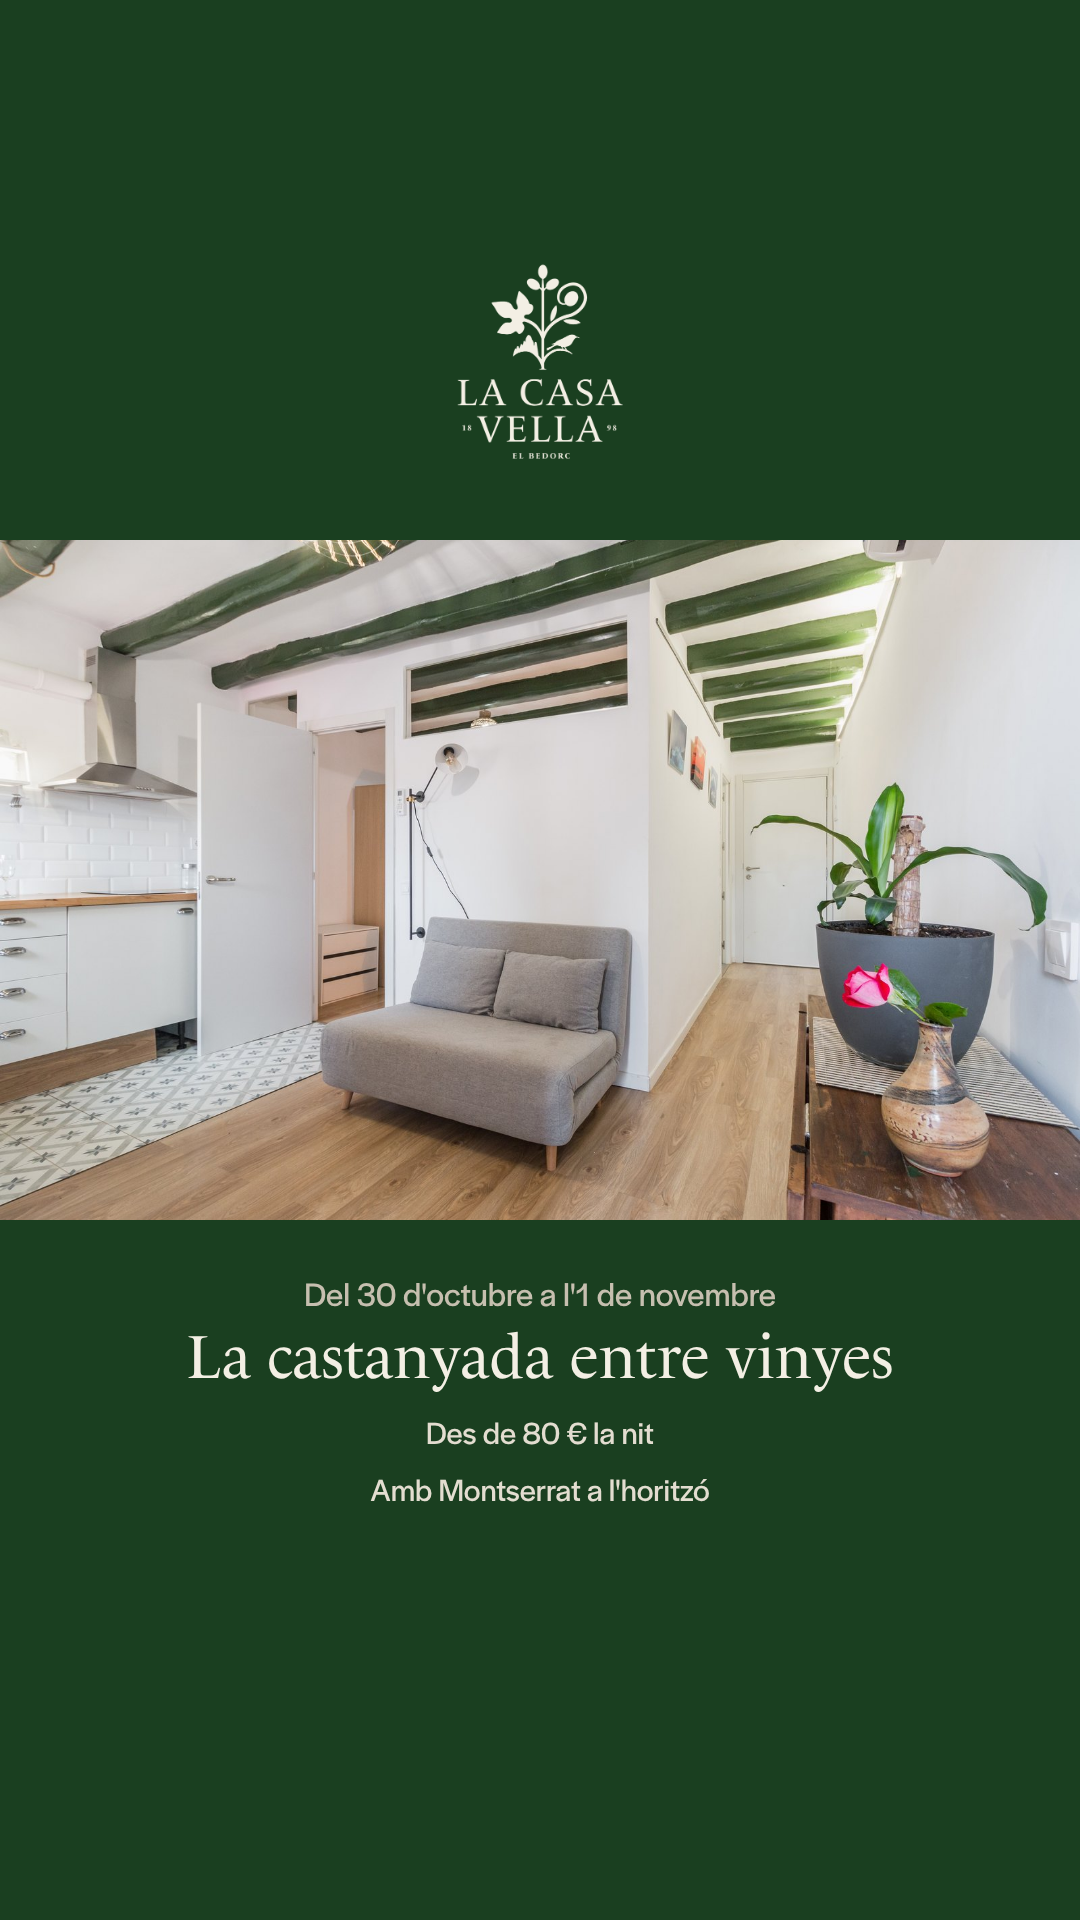
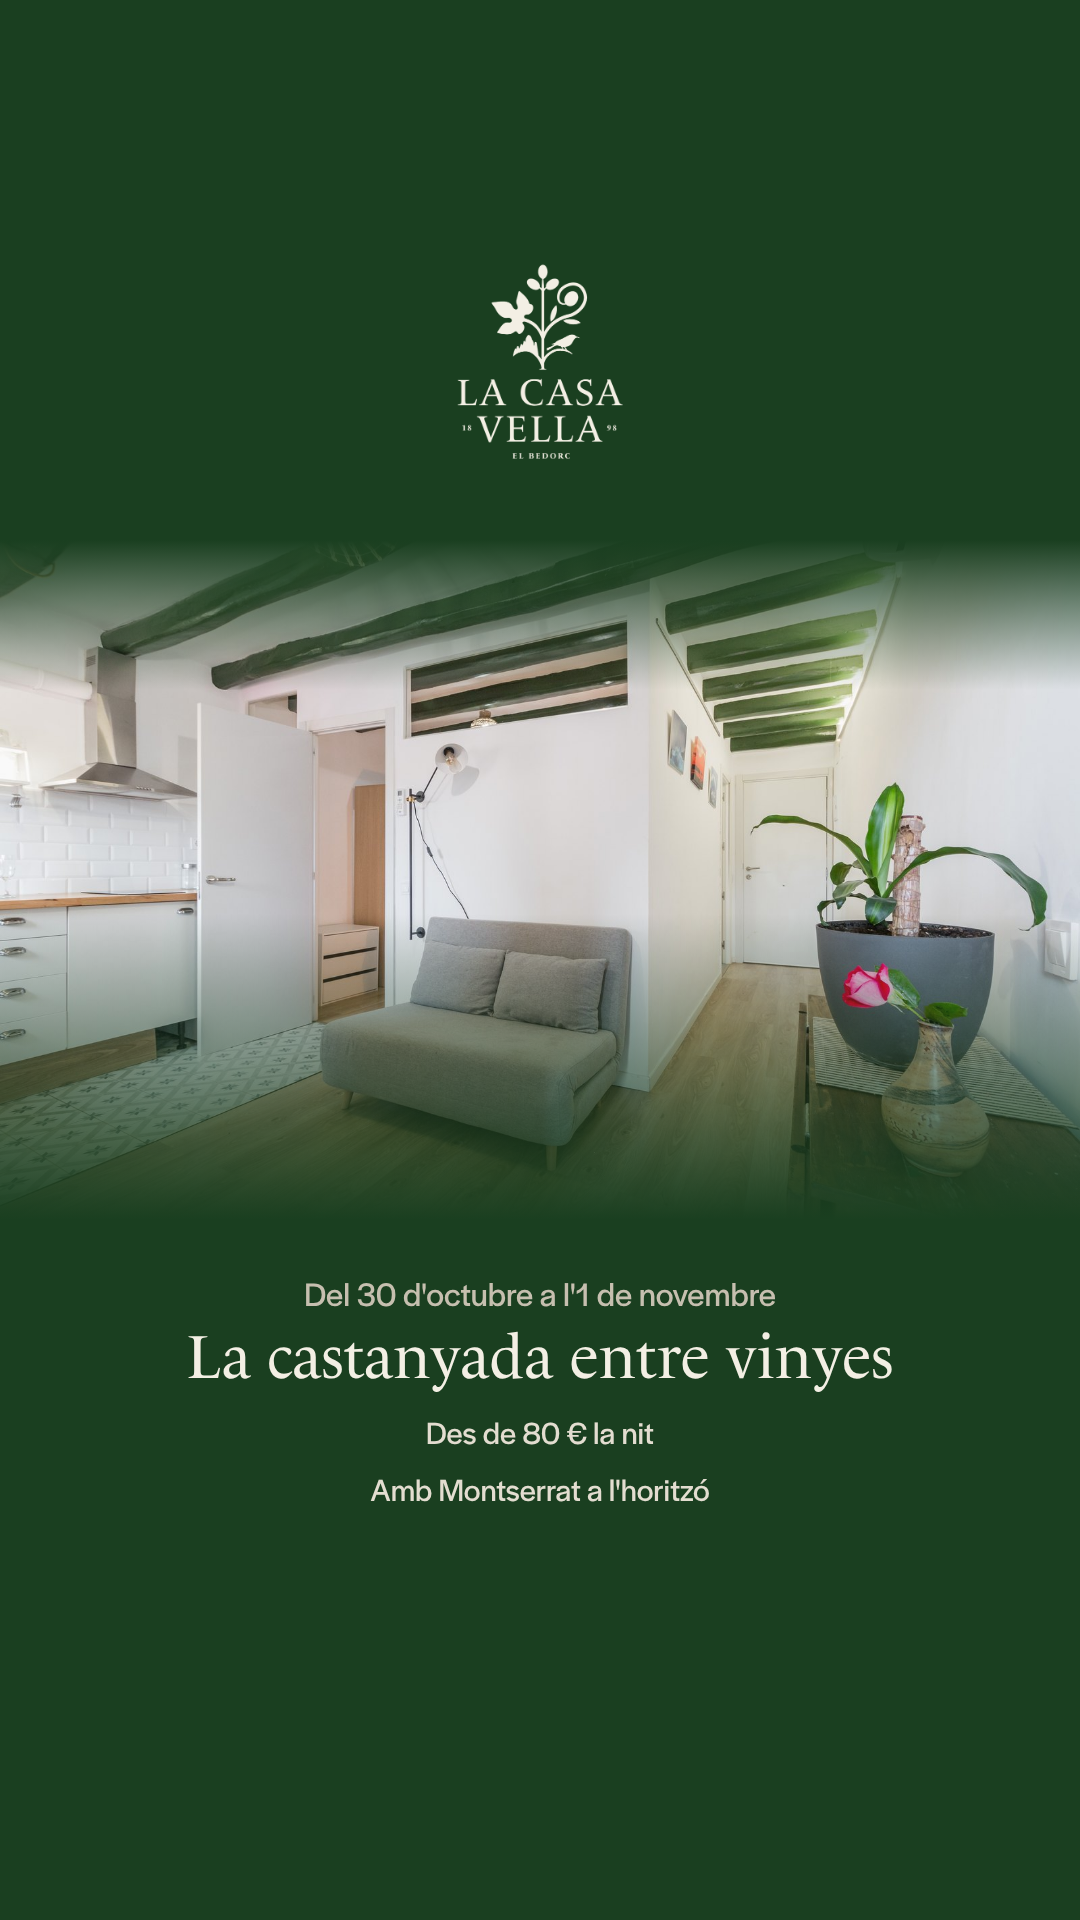
Ads: slow-mornings words on the room image; stories fade the photo into the green
Claude-Session: https://claude.ai/code/session_01Lmu1CZcVCAKZt8uGzZEBGx

Changed region(s): [[0.0, 0.4688, 1.0, 0.6562], [0.0, 0.2812, 1.0, 0.375]]

diff --git a/ads/src/html/castanyada-habitacion-story-es.html b/ads/src/html/castanyada-habitacion-story-es.html
@@ -10,4 +10,5 @@ body { background: #1a3f20; }
 </style><div class="c" style="width:1080px;height:1920px">
 <img src="file:///home/user/casavella/img/logo-light.png" alt="La Casa Vella" style="position:absolute;top:262px;left:50%;width:170px;margin-left:-85px">
 <img class="photo" src="file:///home/user/casavella/img/hab-llit.jpg" style="top:540px;height:680px;object-position:50% center">
-<div style="position:absolute;left:88px;right:88px;top:1270px;display:flex;flex-direction:column;align-items:center;gap:14px;text-align:center"><p class="line" style="font-size: 34px; color: #c6bfaf;">Del 30 de octubre al 1 de noviembre</p><p class="title" style="font-size: 62px;">La castanyada en una casa de 1898</p><p class="line" style="font-size: 32px;">Habitación desde 80 € la noche</p><p class="line" style="font-size: 32px;">Entre viñedos, cerca de Montserrat</p></div></div>
+<div style="position:absolute;left:0;right:0;top:540px;height:680px;background:linear-gradient(180deg,rgba(26,63,32,1) 0%,rgba(26,63,32,0) 22%,rgba(26,63,32,0) 55%,rgba(26,63,32,1) 100%)"></div>
+<div style="position:absolute;left:88px;right:88px;top:1270px;display:flex;flex-direction:column;align-items:center;gap:14px;text-align:center"><p class="line" style="font-size: 34px; color: #c6bfaf;">Del 30 de octubre al 1 de noviembre</p><p class="title" style="font-size: 62px;">Aquí las mañanas empiezan despacio</p><p class="line" style="font-size: 32px;">Habitación desde 80 € la noche</p><p class="line" style="font-size: 32px;">La castanyada entre viñedos</p></div></div>

diff --git a/ads/src/html/castanyada-habitacion-story-ca.html b/ads/src/html/castanyada-habitacion-story-ca.html
@@ -10,4 +10,5 @@ body { background: #1a3f20; }
 </style><div class="c" style="width:1080px;height:1920px">
 <img src="file:///home/user/casavella/img/logo-light.png" alt="La Casa Vella" style="position:absolute;top:262px;left:50%;width:170px;margin-left:-85px">
 <img class="photo" src="file:///home/user/casavella/img/hab-llit.jpg" style="top:540px;height:680px;object-position:50% center">
-<div style="position:absolute;left:88px;right:88px;top:1270px;display:flex;flex-direction:column;align-items:center;gap:14px;text-align:center"><p class="line" style="font-size: 34px; color: #c6bfaf;">Del 30 d'octubre a l'1 de novembre</p><p class="title" style="font-size: 62px;">La castanyada en una casa de 1898</p><p class="line" style="font-size: 32px;">Habitació des de 80 € la nit</p><p class="line" style="font-size: 32px;">Entre vinyes, a prop de Montserrat</p></div></div>
+<div style="position:absolute;left:0;right:0;top:540px;height:680px;background:linear-gradient(180deg,rgba(26,63,32,1) 0%,rgba(26,63,32,0) 22%,rgba(26,63,32,0) 55%,rgba(26,63,32,1) 100%)"></div>
+<div style="position:absolute;left:88px;right:88px;top:1270px;display:flex;flex-direction:column;align-items:center;gap:14px;text-align:center"><p class="line" style="font-size: 34px; color: #c6bfaf;">Del 30 d'octubre a l'1 de novembre</p><p class="title" style="font-size: 62px;">Aquí els matins comencen a poc a poc</p><p class="line" style="font-size: 32px;">Habitació des de 80 € la nit</p><p class="line" style="font-size: 32px;">La castanyada entre vinyes</p></div></div>

diff --git a/ads/src/html/castanyada-habitacion-feed-es.html b/ads/src/html/castanyada-habitacion-feed-es.html
@@ -11,4 +11,4 @@ body { background: #1a3f20; }
 <img class="photo" src="file:///home/user/casavella/img/hab-llit.jpg" style="inset:0;height:100%;object-position:50% center">
 <div style="position:absolute;inset:0;background:linear-gradient(0deg,rgba(26,63,32,.96) 0%,rgba(26,63,32,.55) 34%,rgba(26,63,32,0) 58%)"></div>
 <div style="position:absolute;left:88px;right:88px;bottom:96px;display:flex;flex-direction:column;align-items:center;gap:22px;text-align:center">
-<img src="file:///home/user/casavella/img/iso-light.png" alt="" style="width:56px;margin-bottom:6px"><p class="line" style="font-size: 34px; color: #c6bfaf;">Del 30 de octubre al 1 de noviembre</p><p class="title" style="font-size: 76px;">La castanyada en una casa de 1898</p><p class="line" style="font-size: 32px;">Habitación desde 80 € la noche</p><p class="line" style="font-size: 32px;">Entre viñedos, cerca de Montserrat</p></div></div>
+<img src="file:///home/user/casavella/img/iso-light.png" alt="" style="width:56px;margin-bottom:6px"><p class="line" style="font-size: 34px; color: #c6bfaf;">Del 30 de octubre al 1 de noviembre</p><p class="title" style="font-size: 76px;">Aquí las mañanas empiezan despacio</p><p class="line" style="font-size: 32px;">Habitación desde 80 € la noche</p><p class="line" style="font-size: 32px;">La castanyada entre viñedos</p></div></div>

diff --git a/ads/src/html/castanyada-habitacion-feed-ca.html b/ads/src/html/castanyada-habitacion-feed-ca.html
@@ -11,4 +11,4 @@ body { background: #1a3f20; }
 <img class="photo" src="file:///home/user/casavella/img/hab-llit.jpg" style="inset:0;height:100%;object-position:50% center">
 <div style="position:absolute;inset:0;background:linear-gradient(0deg,rgba(26,63,32,.96) 0%,rgba(26,63,32,.55) 34%,rgba(26,63,32,0) 58%)"></div>
 <div style="position:absolute;left:88px;right:88px;bottom:96px;display:flex;flex-direction:column;align-items:center;gap:22px;text-align:center">
-<img src="file:///home/user/casavella/img/iso-light.png" alt="" style="width:56px;margin-bottom:6px"><p class="line" style="font-size: 34px; color: #c6bfaf;">Del 30 d'octubre a l'1 de novembre</p><p class="title" style="font-size: 76px;">La castanyada en una casa de 1898</p><p class="line" style="font-size: 32px;">Habitació des de 80 € la nit</p><p class="line" style="font-size: 32px;">Entre vinyes, a prop de Montserrat</p></div></div>
+<img src="file:///home/user/casavella/img/iso-light.png" alt="" style="width:56px;margin-bottom:6px"><p class="line" style="font-size: 34px; color: #c6bfaf;">Del 30 d'octubre a l'1 de novembre</p><p class="title" style="font-size: 76px;">Aquí els matins comencen a poc a poc</p><p class="line" style="font-size: 32px;">Habitació des de 80 € la nit</p><p class="line" style="font-size: 32px;">La castanyada entre vinyes</p></div></div>

diff --git a/ads/src/html/castanyada-story-es.html b/ads/src/html/castanyada-story-es.html
@@ -10,4 +10,5 @@ body { background: #1a3f20; }
 </style><div class="c" style="width:1080px;height:1920px">
 <img src="file:///home/user/casavella/img/logo-light.png" alt="La Casa Vella" style="position:absolute;top:262px;left:50%;width:170px;margin-left:-85px">
 <img class="photo" src="file:///home/user/casavella/img/hero-vinyes-capvespre.jpg" style="top:540px;height:680px;object-position:50% center">
+<div style="position:absolute;left:0;right:0;top:540px;height:680px;background:linear-gradient(180deg,rgba(26,63,32,1) 0%,rgba(26,63,32,0) 22%,rgba(26,63,32,0) 55%,rgba(26,63,32,1) 100%)"></div>
 <div style="position:absolute;left:88px;right:88px;top:1270px;display:flex;flex-direction:column;align-items:center;gap:14px;text-align:center"><p class="line" style="font-size: 34px; color: #c6bfaf;">Del 30 de octubre al 1 de noviembre</p><p class="title" style="font-size: 62px;">La castanyada entre viñedos</p><p class="line" style="font-size: 32px;">Desde 80 € la noche</p><p class="line" style="font-size: 32px;">Con Montserrat en el horizonte</p></div></div>

diff --git a/ads/src/html/castanyada-cava-story-es.html b/ads/src/html/castanyada-cava-story-es.html
@@ -10,4 +10,5 @@ body { background: #1a3f20; }
 </style><div class="c" style="width:1080px;height:1920px">
 <img src="file:///home/user/casavella/img/logo-light.png" alt="La Casa Vella" style="position:absolute;top:262px;left:50%;width:170px;margin-left:-85px">
 <img class="photo" src="file:///home/user/casavella/img/apt-cuina-detall.jpg" style="top:540px;height:680px;object-position:62% center">
+<div style="position:absolute;left:0;right:0;top:540px;height:680px;background:linear-gradient(180deg,rgba(26,63,32,1) 0%,rgba(26,63,32,0) 22%,rgba(26,63,32,0) 55%,rgba(26,63,32,1) 100%)"></div>
 <div style="position:absolute;left:88px;right:88px;top:1270px;display:flex;flex-direction:column;align-items:center;gap:14px;text-align:center"><p class="line" style="font-size: 34px; color: #c6bfaf;">Del 30 de octubre al 1 de noviembre</p><p class="title" style="font-size: 62px;">La castanyada entre viñedos</p><p class="line" style="font-size: 32px;">Desde 80 € la noche</p><p class="line" style="font-size: 32px;">Con Montserrat en el horizonte</p></div></div>

diff --git a/ads/src/html/castanyada-story-ca.html b/ads/src/html/castanyada-story-ca.html
@@ -10,4 +10,5 @@ body { background: #1a3f20; }
 </style><div class="c" style="width:1080px;height:1920px">
 <img src="file:///home/user/casavella/img/logo-light.png" alt="La Casa Vella" style="position:absolute;top:262px;left:50%;width:170px;margin-left:-85px">
 <img class="photo" src="file:///home/user/casavella/img/hero-vinyes-capvespre.jpg" style="top:540px;height:680px;object-position:50% center">
+<div style="position:absolute;left:0;right:0;top:540px;height:680px;background:linear-gradient(180deg,rgba(26,63,32,1) 0%,rgba(26,63,32,0) 22%,rgba(26,63,32,0) 55%,rgba(26,63,32,1) 100%)"></div>
 <div style="position:absolute;left:88px;right:88px;top:1270px;display:flex;flex-direction:column;align-items:center;gap:14px;text-align:center"><p class="line" style="font-size: 34px; color: #c6bfaf;">Del 30 d'octubre a l'1 de novembre</p><p class="title" style="font-size: 62px;">La castanyada entre vinyes</p><p class="line" style="font-size: 32px;">Des de 80 € la nit</p><p class="line" style="font-size: 32px;">Amb Montserrat a l'horitzó</p></div></div>

diff --git a/ads/src/html/castanyada-apartamento-story-es.html b/ads/src/html/castanyada-apartamento-story-es.html
@@ -10,4 +10,5 @@ body { background: #1a3f20; }
 </style><div class="c" style="width:1080px;height:1920px">
 <img src="file:///home/user/casavella/img/logo-light.png" alt="La Casa Vella" style="position:absolute;top:262px;left:50%;width:170px;margin-left:-85px">
 <img class="photo" src="file:///home/user/casavella/img/apt-sala-2.jpg" style="top:540px;height:680px;object-position:45% center">
+<div style="position:absolute;left:0;right:0;top:540px;height:680px;background:linear-gradient(180deg,rgba(26,63,32,1) 0%,rgba(26,63,32,0) 22%,rgba(26,63,32,0) 55%,rgba(26,63,32,1) 100%)"></div>
 <div style="position:absolute;left:88px;right:88px;top:1270px;display:flex;flex-direction:column;align-items:center;gap:14px;text-align:center"><p class="line" style="font-size: 34px; color: #c6bfaf;">Del 30 de octubre al 1 de noviembre</p><p class="title" style="font-size: 62px;">La castanyada entre viñedos</p><p class="line" style="font-size: 32px;">Desde 80 € la noche</p><p class="line" style="font-size: 32px;">Con Montserrat en el horizonte</p></div></div>

diff --git a/ads/src/html/castanyada-cava-story-ca.html b/ads/src/html/castanyada-cava-story-ca.html
@@ -10,4 +10,5 @@ body { background: #1a3f20; }
 </style><div class="c" style="width:1080px;height:1920px">
 <img src="file:///home/user/casavella/img/logo-light.png" alt="La Casa Vella" style="position:absolute;top:262px;left:50%;width:170px;margin-left:-85px">
 <img class="photo" src="file:///home/user/casavella/img/apt-cuina-detall.jpg" style="top:540px;height:680px;object-position:62% center">
+<div style="position:absolute;left:0;right:0;top:540px;height:680px;background:linear-gradient(180deg,rgba(26,63,32,1) 0%,rgba(26,63,32,0) 22%,rgba(26,63,32,0) 55%,rgba(26,63,32,1) 100%)"></div>
 <div style="position:absolute;left:88px;right:88px;top:1270px;display:flex;flex-direction:column;align-items:center;gap:14px;text-align:center"><p class="line" style="font-size: 34px; color: #c6bfaf;">Del 30 d'octubre a l'1 de novembre</p><p class="title" style="font-size: 62px;">La castanyada entre vinyes</p><p class="line" style="font-size: 32px;">Des de 80 € la nit</p><p class="line" style="font-size: 32px;">Amb Montserrat a l'horitzó</p></div></div>

diff --git a/ads/src/html/oferta-story-es.html b/ads/src/html/oferta-story-es.html
@@ -10,4 +10,5 @@ body { background: #1a3f20; }
 </style><div class="c" style="width:1080px;height:1920px">
 <img src="file:///home/user/casavella/img/logo-light.png" alt="La Casa Vella" style="position:absolute;top:262px;left:50%;width:170px;margin-left:-85px">
 <img class="photo" src="file:///home/user/casavella/img/apt-sala-2.jpg" style="top:540px;height:680px;object-position:45% center">
+<div style="position:absolute;left:0;right:0;top:540px;height:680px;background:linear-gradient(180deg,rgba(26,63,32,1) 0%,rgba(26,63,32,0) 22%,rgba(26,63,32,0) 55%,rgba(26,63,32,1) 100%)"></div>
 <div style="position:absolute;left:88px;right:88px;top:1270px;display:flex;flex-direction:column;align-items:center;gap:14px;text-align:center"><p class="line" style="font-size: 34px; color: #c6bfaf;">Del 13 al 15 de noviembre</p><p class="title" style="font-size: 62px;">Dos noches en el apartamento, 209 €</p><p class="line" style="font-size: 32px;">Hasta tres personas</p><p class="line" style="font-size: 32px;">5,0 en Google, 22 opiniones</p></div></div>

diff --git a/ads/src/html/castanyada-apartamento-story-ca.html b/ads/src/html/castanyada-apartamento-story-ca.html
@@ -10,4 +10,5 @@ body { background: #1a3f20; }
 </style><div class="c" style="width:1080px;height:1920px">
 <img src="file:///home/user/casavella/img/logo-light.png" alt="La Casa Vella" style="position:absolute;top:262px;left:50%;width:170px;margin-left:-85px">
 <img class="photo" src="file:///home/user/casavella/img/apt-sala-2.jpg" style="top:540px;height:680px;object-position:45% center">
+<div style="position:absolute;left:0;right:0;top:540px;height:680px;background:linear-gradient(180deg,rgba(26,63,32,1) 0%,rgba(26,63,32,0) 22%,rgba(26,63,32,0) 55%,rgba(26,63,32,1) 100%)"></div>
 <div style="position:absolute;left:88px;right:88px;top:1270px;display:flex;flex-direction:column;align-items:center;gap:14px;text-align:center"><p class="line" style="font-size: 34px; color: #c6bfaf;">Del 30 d'octubre a l'1 de novembre</p><p class="title" style="font-size: 62px;">La castanyada entre vinyes</p><p class="line" style="font-size: 32px;">Des de 80 € la nit</p><p class="line" style="font-size: 32px;">Amb Montserrat a l'horitzó</p></div></div>

diff --git a/ads/src/html/oferta-story-ca.html b/ads/src/html/oferta-story-ca.html
@@ -10,4 +10,5 @@ body { background: #1a3f20; }
 </style><div class="c" style="width:1080px;height:1920px">
 <img src="file:///home/user/casavella/img/logo-light.png" alt="La Casa Vella" style="position:absolute;top:262px;left:50%;width:170px;margin-left:-85px">
 <img class="photo" src="file:///home/user/casavella/img/apt-sala-2.jpg" style="top:540px;height:680px;object-position:45% center">
+<div style="position:absolute;left:0;right:0;top:540px;height:680px;background:linear-gradient(180deg,rgba(26,63,32,1) 0%,rgba(26,63,32,0) 22%,rgba(26,63,32,0) 55%,rgba(26,63,32,1) 100%)"></div>
 <div style="position:absolute;left:88px;right:88px;top:1270px;display:flex;flex-direction:column;align-items:center;gap:14px;text-align:center"><p class="line" style="font-size: 34px; color: #c6bfaf;">Del 13 al 15 de novembre</p><p class="title" style="font-size: 62px;">Dues nits a l'apartament, 209 €</p><p class="line" style="font-size: 32px;">Fins a tres persones</p><p class="line" style="font-size: 32px;">5,0 a Google, 22 opinions</p></div></div>
